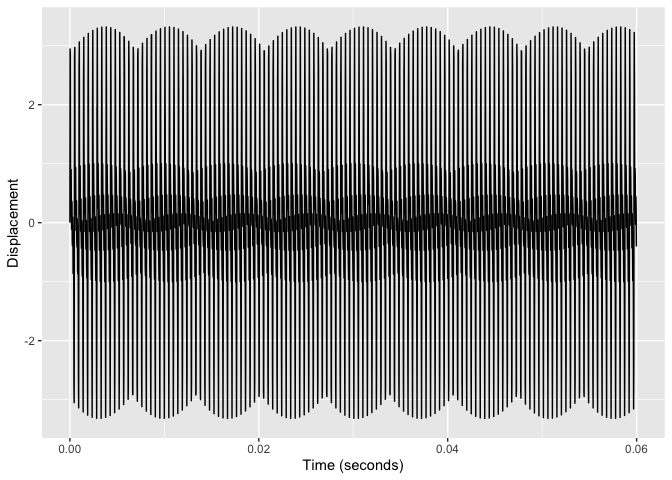
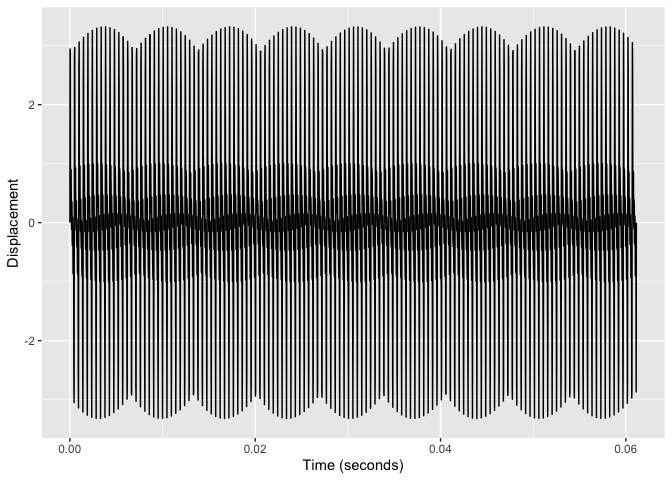
time length

diff --git a/man/thoughts/Cochlea.md b/man/thoughts/Cochlea.md
@@ -5,9 +5,21 @@ Cochlea
 C1 = c(24) %>% hrep::sparse_fr_spectrum(num_harmonics=5)
 ```
 
+``` r
+C1 %>% hrep::wave(length_sec=time) %>% plot(ggplot=T)
+```
+
 ![](../figures/Cochlea-unnamed-chunk-3-1.png)<!-- -->
 
+``` r
+C1 %>% plot(ggplot=T)
+```
+
 ![](../figures/Cochlea-unnamed-chunk-4-1.png)<!-- -->
+
+``` r
+C1 %>% plot(cochlea =T,ggplot=T,xlim=c(0,100))
+```
 
 ![](../figures/Cochlea-unnamed-chunk-5-1.png)<!-- -->
 
@@ -15,9 +27,21 @@ C1 = c(24) %>% hrep::sparse_fr_spectrum(num_harmonics=5)
 C4 = c(60) %>% hrep::sparse_fr_spectrum(num_harmonics=5)
 ```
 
+``` r
+C4 %>% hrep::wave(length_sec=time) %>% plot(ggplot=T)
+```
+
 ![](../figures/Cochlea-unnamed-chunk-7-1.png)<!-- -->
 
+``` r
+C4 %>% plot(ggplot=T)
+```
+
 ![](../figures/Cochlea-unnamed-chunk-8-1.png)<!-- -->
+
+``` r
+C4 %>% plot(cochlea =T,ggplot=T,xlim=c(0,100))
+```
 
 ![](../figures/Cochlea-unnamed-chunk-9-1.png)<!-- -->
 
